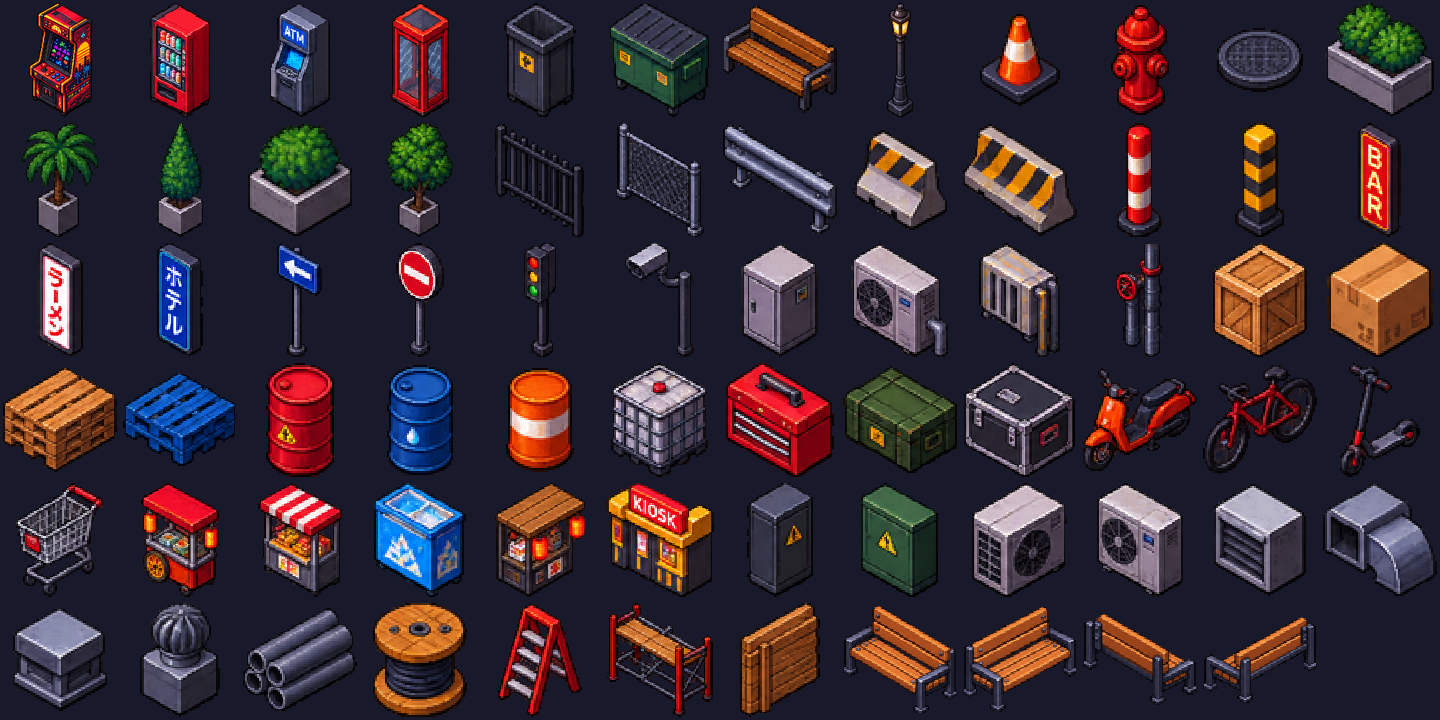
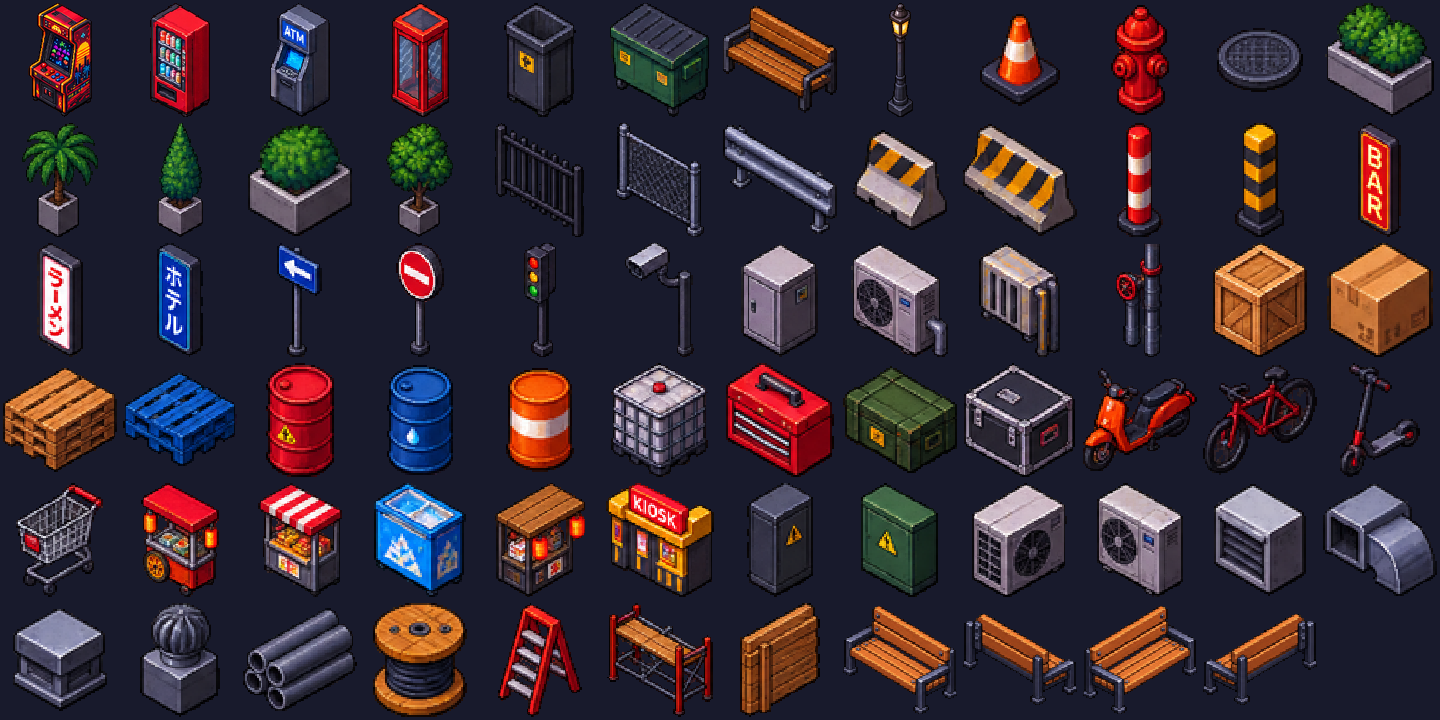
Bench ↘/↖ views mirrored from ↙/↗: all four views now 29–30.4°
The sheet's own ↘ and ↖ drawings were ~1.5° too shallow (28.3°/28.5°).
With the fixed 45° camera yaw, a screen mirror swaps world X and Z, so for a
symmetric prop the turned view is exactly the mirror of the unturned one:
same pixels and angles, no stretching or resampling.

Claude-Session: https://claude.ai/code/session_01D9Q6q9cGWpo6Wm1NZkRdLE

Changed region(s): [[0.6562, 0.825, 0.9062, 0.9778]]

diff --git a/src/assets/conceptProps.generated.ts b/src/assets/conceptProps.generated.ts
@@ -113,7 +113,7 @@ export const CONCEPT_PROPS: ConceptPropInfo[] = [
    230
   ],
   "atlas": [
-   233,
+   231,
    116,
    46,
    73
@@ -159,7 +159,7 @@ export const CONCEPT_PROPS: ConceptPropInfo[] = [
    258
   ],
   "atlas": [
-   524,
+   522,
    116,
    76,
    71
@@ -274,7 +274,7 @@ export const CONCEPT_PROPS: ConceptPropInfo[] = [
    419
   ],
   "atlas": [
-   922,
+   920,
    116,
    64,
    67
@@ -435,7 +435,7 @@ export const CONCEPT_PROPS: ConceptPropInfo[] = [
    415
   ],
   "atlas": [
-   744,
+   824,
    192,
    63,
    60
@@ -527,7 +527,7 @@ export const CONCEPT_PROPS: ConceptPropInfo[] = [
    401
   ],
   "atlas": [
-   809,
+   889,
    192,
    26,
    60
@@ -550,7 +550,7 @@ export const CONCEPT_PROPS: ConceptPropInfo[] = [
    568
   ],
   "atlas": [
-   378,
+   376,
    116,
    27,
    72
@@ -573,7 +573,7 @@ export const CONCEPT_PROPS: ConceptPropInfo[] = [
    573
   ],
   "atlas": [
-   407,
+   405,
    116,
    29,
    72
@@ -596,7 +596,7 @@ export const CONCEPT_PROPS: ConceptPropInfo[] = [
    573
   ],
   "atlas": [
-   438,
+   436,
    116,
    29,
    72
@@ -619,7 +619,7 @@ export const CONCEPT_PROPS: ConceptPropInfo[] = [
    577
   ],
   "atlas": [
-   706,
+   704,
    116,
    27,
    69
@@ -642,7 +642,7 @@ export const CONCEPT_PROPS: ConceptPropInfo[] = [
    579
   ],
   "atlas": [
-   281,
+   279,
    116,
    31,
    73
@@ -711,7 +711,7 @@ export const CONCEPT_PROPS: ConceptPropInfo[] = [
    578
   ],
   "atlas": [
-   602,
+   600,
    116,
    47,
    70
@@ -734,7 +734,7 @@ export const CONCEPT_PROPS: ConceptPropInfo[] = [
    583
   ],
   "atlas": [
-   314,
+   312,
    116,
    62,
    73
@@ -803,7 +803,7 @@ export const CONCEPT_PROPS: ConceptPropInfo[] = [
    718
   ],
   "atlas": [
-   804,
+   802,
    116,
    56,
    68
@@ -895,7 +895,7 @@ export const CONCEPT_PROPS: ConceptPropInfo[] = [
    707
   ],
   "atlas": [
-   919,
+   917,
    192,
    35,
    59
@@ -964,7 +964,7 @@ export const CONCEPT_PROPS: ConceptPropInfo[] = [
    723
   ],
   "atlas": [
-   862,
+   860,
    116,
    58,
    68
@@ -1033,7 +1033,7 @@ export const CONCEPT_PROPS: ConceptPropInfo[] = [
    719
   ],
   "atlas": [
-   735,
+   733,
    116,
    67,
    69
@@ -1079,7 +1079,7 @@ export const CONCEPT_PROPS: ConceptPropInfo[] = [
    860
   ],
   "atlas": [
-   589,
+   669,
    192,
    63,
    61
@@ -1102,7 +1102,7 @@ export const CONCEPT_PROPS: ConceptPropInfo[] = [
    854
   ],
   "atlas": [
-   654,
+   734,
    192,
    43,
    61
@@ -1332,7 +1332,7 @@ export const CONCEPT_PROPS: ConceptPropInfo[] = [
    1007
   ],
   "atlas": [
-   651,
+   649,
    116,
    53,
    70
@@ -1424,7 +1424,7 @@ export const CONCEPT_PROPS: ConceptPropInfo[] = [
    1007
   ],
   "atlas": [
-   699,
+   779,
    192,
    43,
    61
@@ -1447,7 +1447,7 @@ export const CONCEPT_PROPS: ConceptPropInfo[] = [
    1008
   ],
   "atlas": [
-   956,
+   954,
    192,
    65,
    59
@@ -1493,7 +1493,7 @@ export const CONCEPT_PROPS: ConceptPropInfo[] = [
    1012
   ],
   "atlas": [
-   469,
+   467,
    116,
    53,
    72
@@ -1569,29 +1569,6 @@ export const CONCEPT_PROPS: ConceptPropInfo[] = [
   ]
  },
  {
-  "id": "concept.props.bench-r90",
-  "group": "props",
-  "category": "street",
-  "categoryLabel": "Katukalusteet",
-  "key": "bench-r90",
-  "label": "Penkki (istuin ↘)",
-  "file": "concept/props/bench-r90.png",
-  "width": 80,
-  "height": 74,
-  "sourceBox": [
-   434,
-   6,
-   760,
-   308
-  ],
-  "atlas": [
-   151,
-   116,
-   80,
-   74
-  ]
- },
- {
   "id": "concept.props.bench-r180",
   "group": "props",
   "category": "street",
@@ -1615,6 +1592,30 @@ export const CONCEPT_PROPS: ConceptPropInfo[] = [
   ]
  },
  {
+  "id": "concept.props.bench-r90",
+  "group": "props",
+  "category": "street",
+  "categoryLabel": "Katukalusteet",
+  "key": "bench-r90",
+  "label": "Penkki (istuin ↘)",
+  "file": "concept/props/bench-r90.png",
+  "width": 78,
+  "height": 74,
+  "sourceBox": [
+   65,
+   6,
+   385,
+   310
+  ],
+  "mirrorOf": "bench-r0",
+  "atlas": [
+   151,
+   116,
+   78,
+   74
+  ]
+ },
+ {
   "id": "concept.props.bench-r270",
   "group": "props",
   "category": "street",
@@ -1622,19 +1623,20 @@ export const CONCEPT_PROPS: ConceptPropInfo[] = [
   "key": "bench-r270",
   "label": "Penkki (istuin ↖, selkä näkyy)",
   "file": "concept/props/bench-r270.png",
-  "width": 80,
-  "height": 60,
+  "width": 78,
+  "height": 62,
   "sourceBox": [
-   784,
-   306,
-   1114,
-   556
+   63,
+   286,
+   385,
+   541
   ],
+  "mirrorOf": "bench-r180",
   "atlas": [
-   837,
+   589,
    192,
-   80,
-   60
+   78,
+   62
   ]
  }
 ];

diff --git a/tests/unit/avatars-items.test.ts b/tests/unit/avatars-items.test.ts
@@ -107,6 +107,14 @@ describe('concept assets', () => {
     assert.equal(new Set(CONCEPT_PROPS.map((p) => p.key)).size, 71);
   });
 
+  it('turned bench views are exact mirrors of the correctly drawn views', () => {
+    const by = (k: string) => CONCEPT_PROPS.find((p) => p.key === k)!;
+    assert.equal(by('bench-r90').mirrorOf, 'bench-r0');
+    assert.equal(by('bench-r270').mirrorOf, 'bench-r180');
+    assert.equal(by('bench-r90').width, by('bench-r0').width);
+    assert.equal(by('bench-r270').height, by('bench-r180').height);
+  });
+
   it('concept art can never be registered as a sprite atlas', () => {
     const issues = validateManifest({
       version: 1,

diff --git a/src/assets/AssetManifest.ts b/src/assets/AssetManifest.ts
@@ -44,6 +44,8 @@ export interface ConceptPropInfo {
   sourceBox: number[];
   /** [x, y, w, h] inside PROPS_ATLAS. */
   atlas: number[];
+  /** Set when this view is the horizontal mirror of another view (key). */
+  mirrorOf?: string;
 }
 
 export interface AssetEntry {

diff --git a/tools/extract_props_sheet.py b/tools/extract_props_sheet.py
@@ -139,11 +139,20 @@ EXTRA_SOURCES = [
         0.25,  # the bench is drawn ~320 px wide here vs ~150 px on sheet v2
         [
             ("bench-r0", "Penkki (istuin ↙)", "street", "Katukalusteet", (65, 6, 385, 310)),
-            ("bench-r90", "Penkki (istuin ↘)", "street", "Katukalusteet", (434, 6, 760, 308)),
+            # ↘ and ↖ views are mirror images of ↙ and ↗ (see MIRRORED below): the sheet's own
+            # ↘/↖ drawings were ~1.5° too shallow (28.3°/28.5° vs 30°).
             ("bench-r180", "Penkki (istuin ↗, selkä näkyy)", "street", "Katukalusteet", (63, 286, 385, 541)),
-            ("bench-r270", "Penkki (istuin ↖, selkä näkyy)", "street", "Katukalusteet", (784, 306, 1114, 556)),
         ],
     ),
+]
+
+# Views produced by mirroring another view horizontally. With the camera's fixed
+# 45° yaw, a left-right mirror on screen swaps world X and Z, so a symmetric prop
+# turned 90° is exactly the mirror image of the unturned one — same pixels, same
+# edge angles, no resampling. (Highlights move to the other side, as in a mirror.)
+MIRRORED = [
+    ("bench-r90", "Penkki (istuin ↘)", "bench-r0"),
+    ("bench-r270", "Penkki (istuin ↖, selkä näkyy)", "bench-r180"),
 ]
 
 
@@ -243,6 +252,14 @@ def main() -> None:
                 }
             )
             tiles.append(small)
+
+    for key, name, source in MIRRORED:
+        i = next(n for n, e in enumerate(entries) if e["key"] == source)
+        img = tiles[i].transpose(Image.FLIP_LEFT_RIGHT)
+        img.save(CROPS / f"{key}.png", optimize=True)
+        entries.append({**entries[i], "id": f"concept.props.{key}", "key": key, "label": name,
+                        "file": f"concept/props/{key}.png", "mirrorOf": source})
+        tiles.append(img)
 
     # Shelf-pack into one atlas, tallest first.
     order = sorted(range(len(tiles)), key=lambda i: -tiles[i].height)

diff --git a/tools/measure_iso_angles.py b/tools/measure_iso_angles.py
@@ -60,6 +60,8 @@ def measure_props() -> None:
         sheet = sheets["bench"] if e["key"].startswith("bench-r") else sheets["v2"]
         x0, y0, x1, y1 = e["sourceBox"]
         crop = sheet[y0:y1, x0:x1]
+        if e.get("mirrorOf"):
+            crop = cv2.flip(crop, 1)  # this view is the mirror image of another
         gray = cv2.cvtColor(crop[..., :3], cv2.COLOR_BGR2GRAY)
         gray[crop[..., 3] <= 110] = 0
         c = edge_angles(gray, 40)
